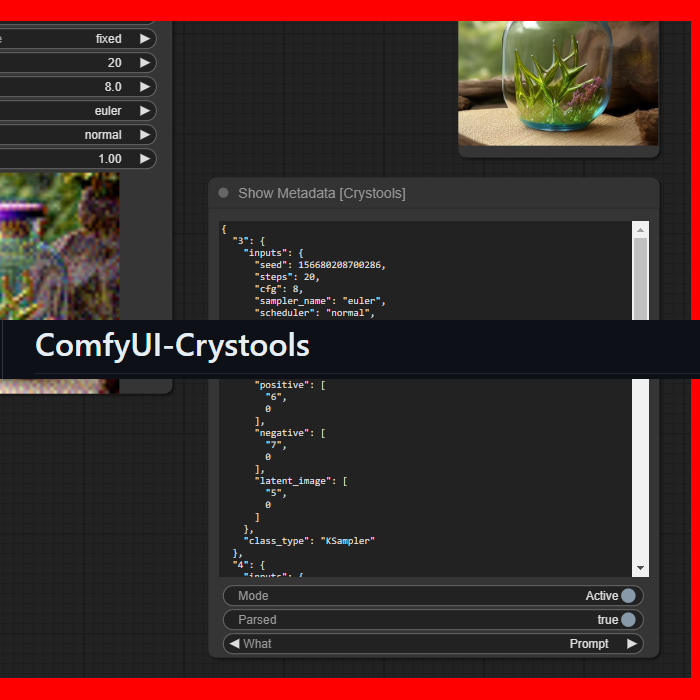
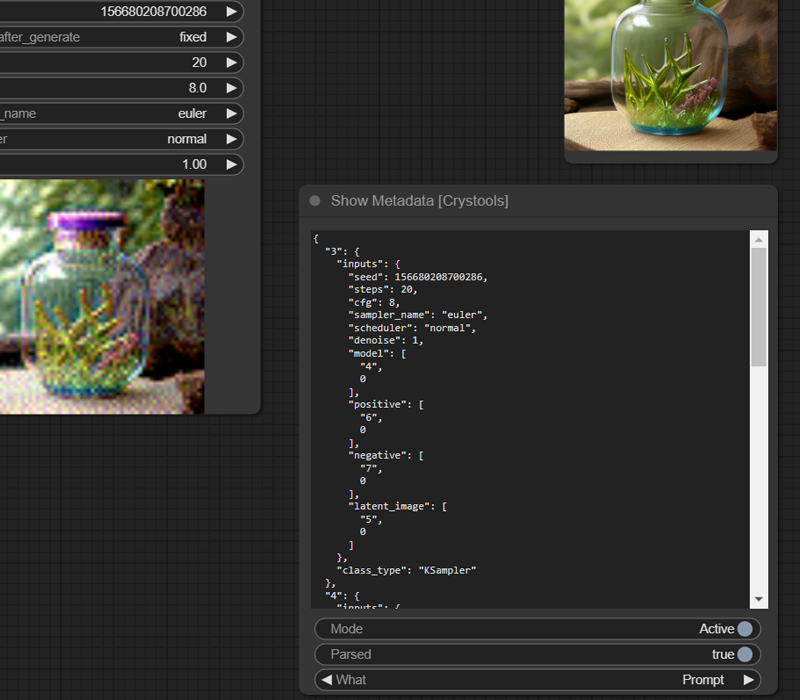
readme update

Changed region(s): [[0.0, 0.0, 1.0, 1.0], [0.3, 0.27, 0.63, 0.33]]

diff --git a/web/js/debugger.js b/web/js/debugger.js
@@ -37,7 +37,7 @@ app.registerExtension({
 
         const w = ComfyWidgets.STRING(this, '', ['', {default: '', multiline: true}], app).widget;
         w.inputEl.readOnly = true;
-        ComfyWidgets.BOOLEAN(this, 'Mode', ['', {default: true, label_on: 'Active', label_off: 'Inactive'}], app);
+        ComfyWidgets.BOOLEAN(this, 'Active', ['', {default: true}], app);
         ComfyWidgets.BOOLEAN(this, 'Parsed', ['', {default: true}], app);
         ComfyWidgets.COMBO(this, 'What', [['Prompt', 'Workflow'], {default: 'Prompt'}]);
       }

diff --git a/README.md b/README.md
@@ -2,21 +2,29 @@
 
 **_A powerful set of tools for your belt when you work with ComfyUI_**
 
+Show metadata, compare between two JSONs, compare between two images, show any value to console/display, pipes, and more!
+
+![Show metadata](./docs/jake.gif)
+
 ## Debugger
 ### Show Metadata
 
-Do you need to see the complete prompt? or even the entire workflow?  
--No problem, just connect the output of the prompt or workflow to the input of this node and you will see the complete JSON.
+> Do you need to see the complete prompt? or even the entire workflow?  
+
+No problem! Just connect the output of the prompt or workflow to the input of this node and you will see the complete JSON.
+
+With this node, you will be able to see the JSON produced from your entire prompt and workflow so that you can really know all the values (and more) of your prompt quickly without the need to open the file (PNG or JSON).
+
+![Show metadata](./docs/show-metadata.png)
 
 ><details>
->    <summary>ℹ <i>More Information</i></summary>
+>  <summary><i>Options</i></summary>
 >
->    With this node, you will be able to see the JSON produced from your entire prompt and workflow so that you can really know all the values (and more) of your prompt quickly without the need to open the file (PNG or JSON).
->
->    ![Show metadata](./docs/show-metadata.png)
-> 
->    ![Show metadata](./docs/show-metadata2.png)
+>  - Active: Enable/disable the node  
+>  - Parsed: Show the parsed json or plain text  
+>  - What: Show the prompt or workflow (prompt are values to produce the image, and workflow is the entire workflow of ComfyUI)
 ></details>
+
 
 
 
@@ -59,6 +67,8 @@ More info and works:
 ig
 
 buscar con oo
+
+primerp pryecto en python
 
 ## Installation
 
